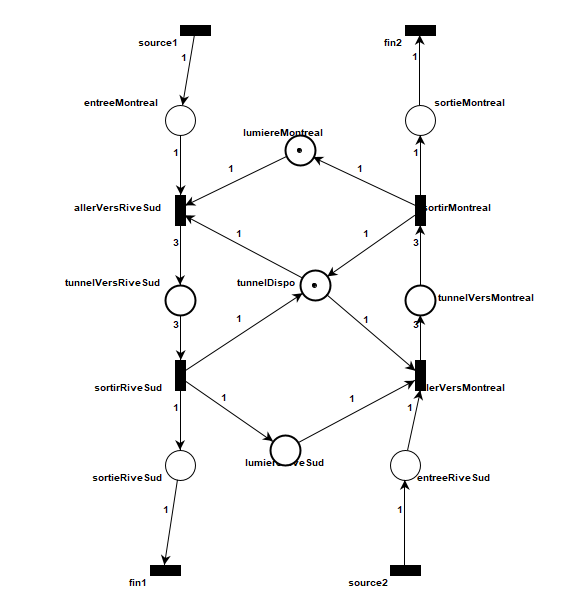
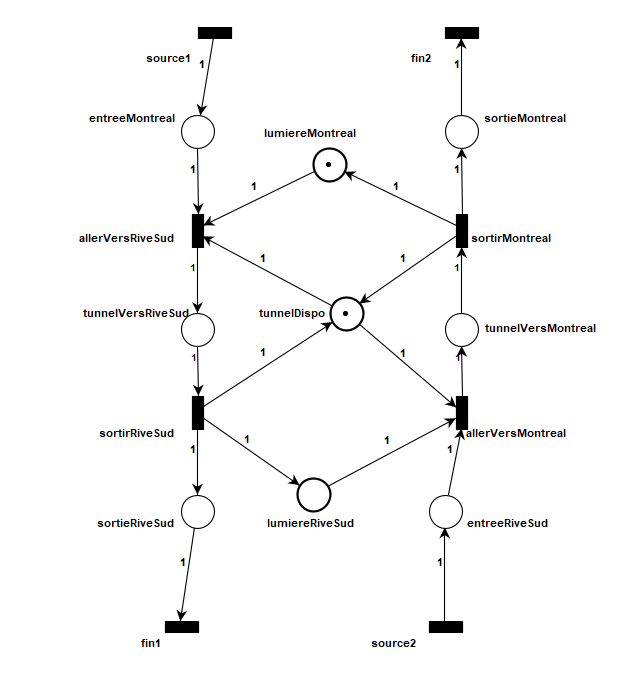
finir Petri

diff --git a/Rapport.html b/Rapport.html
@@ -36,7 +36,7 @@ img { max-width: 100%; margin-top: 15px; }
 <li><strong>Dabo Fahîma :</strong> tunwend-raabo.fahima.c.dabo@umontreal.ca | Matricule : 6362 | Temps investi : 38 heures </li><br>
 <li><strong>Jean Paul Marc Olivier  :</strong>  marc.olivier.jean.paul@umontreal.ca | Matricule : 1763 | Temps investi : 40 heures</li><br>
 <li><strong>Guinguiere Reine :</strong> wendkuni.reine.rosine.guinguiere@umontreal.ca | Matricule : 1523 | Temps investi : 36 heures</li><br>
-<li><strong>RahmouniAbdelghafour :</strong> abdel.ghafour.rahmouni@umontreal.ca | Matricule : 6224 | Temps investi : 39 heures</li>
+<li><strong>Rahmouni Abdelghafour :</strong> abdel.ghafour.rahmouni@umontreal.ca | Matricule : 6224 | Temps investi : 39 heures</li>
 </ul>
 
 <br>
@@ -44,16 +44,22 @@ img { max-width: 100%; margin-top: 15px; }
 <div class="Réseau de Pétri">
 <h2>1. Réseau de Pétri : Tunnel</h2>
 <img src="Reseau_de_Petri\3911_petri.png" alt="Réseau de Pétri - Tunnel">
-<p>Ce réseau de Pétri modélise avec la gestion d'une ressource critique partagée, 
-  en imposant une exclusion mutuelle et une équité entre Montréal et la rive Sud. La circulation 
-  est régulée par la place centrale <i>tunnelDispo</i>, qui agit comme suit : elle possède un seul 
-  jeton initial, elle interdit physiquement l'entrée d'une seconde voiture tant que la précédente n'a pas 
-  franchi la transition de sortie (sortir...), garantissant ainsi qu'une seule voiture occupe le tunnel à la fois. 
-  L'équité est assurée par le cycle des places lumiereMontreal et lumiereRiveSud : le jeton d'autorisation 
-  n'est rendu à la rive opposée qu'une fois la traversée complétée, ce qui force une alternance systématique 
-  et empêche toute "famine" ou monopolisation du tunnel par un flux continu d'un seul côté. Enfin, l'utilisation 
-  de poids d'arcs spécifiques (3) pour l'état interne du tunnel permet de modéliser une capacité de transit ou une 
-  durée de traversée. Un passage ne peut etre possible que si la voiture a le jeton de <i>lumiereMontreal</i> ET celui de <i>tunnelDispo</i></p>
+<p>
+  Ce réseau de Pétri modélise avec la gestion d'une ressource critique partagée, 
+  en imposant une exclusion mutuelle et une équité entre Montréal et la rive Sud.
+  Un réseau de Pétri est conservateur pour un vecteur de pondération donné si la 
+  somme pondérée des jetons dans les places est constante pour toutes les configurations atteignables du réseau.
+  Dans notre modèle, la place <i>tunnelDispo</i> est initialisée avec un jeton, ce qui signifie que le tunnel est disponible pour une voiture.
+  Les places <i>tunnelVersRiveSud</i> et <i>tunnelVersMontreal</i> sont initialisées à zéro, indiquant qu'aucune voiture n'est actuellement dans le tunnel.
+  Donc en faisant la somme, cela donne : M(tunnelDispo) + M(tunnelVersRiveSud) + M(tunnelVersMontreal) = 1, ce qui montre que le réseau est conservateur pour ce vecteur de pondération.
+</p>
+
+<img src="Reseau_de_Petri\graphe_couverture.jpeg" alt="Graphe de couverture - Tunnel">
+<p>
+  Le graphe de couverture montre que toutes les configurations possibles du réseau de Pétri sont atteignables à partir de l'état initial.
+  Il montre aussi que le système est équitable de part et d'autre du tunnel, car les transitions permettant de traverser le tunnel
+  alternent entre les deux côtés chaque fois qu'une voiture traverse. Cela empêche la famine où un des côtés monopoliserait le tunnel.
+</p>
 
 </div>
 
